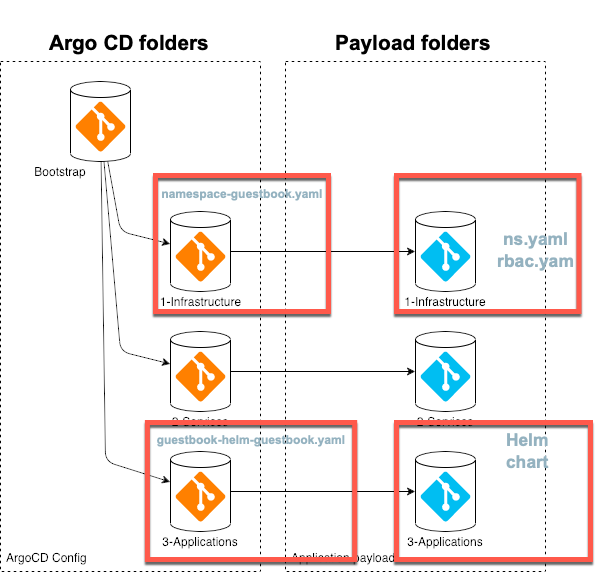
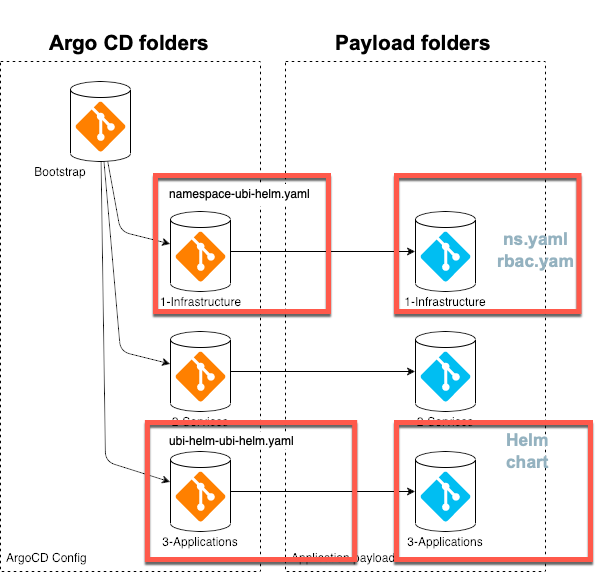
update readme and images

Changed region(s): [[0.25, 0.743, 0.5625, 0.8024], [0.25, 0.3269, 0.5312, 0.3566]]

diff --git a/documentation/README.md b/documentation/README.md
@@ -1053,7 +1053,7 @@ Let's take a look a the created `Argo CD application configurations`
 
 We have two `Argo CD` application configurations:
 
-#### 7.1.1.1 ubi **Namespace** in `argocd.1-infrastructure.cluster.default.base.namespace.yaml`
+#### 7.1.1.1 ubi **Namespace** in `argocd.1-infrastructure.cluster.default.base.namespace-ubi-helm.yaml`
 
 ```yaml
 apiVersion: argoproj.io/v1alpha1
